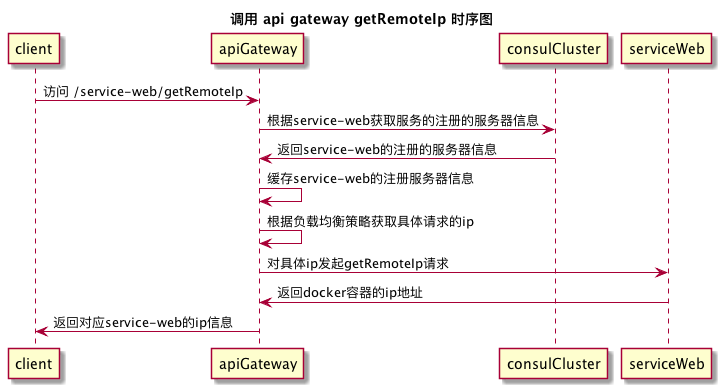
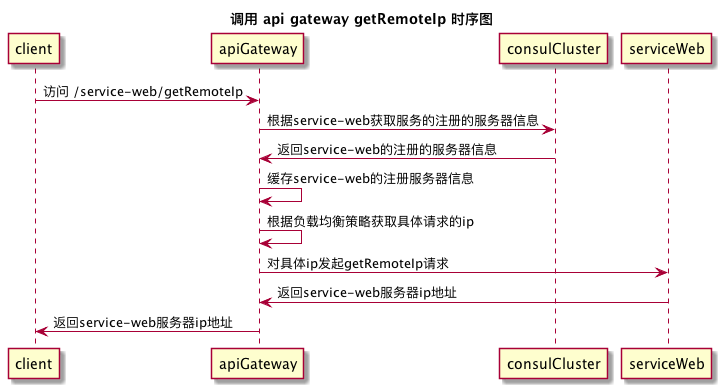
完成服务发现文章

Changed region(s): [[0.0915, 0.8041, 0.3356, 0.866], [0.4272, 0.7113, 0.6408, 0.7732]]

diff --git a/serviceFind.md b/serviceFind.md
@@ -23,12 +23,15 @@
 
 ## 示例
 
-示例部署图如下：
+为了验证服务发现机制，api gateway对外提供`getRemoteIp`方法，用来获取service web的本地ip地址。获取service web的ip的作用有两个：
+
+1. 成功返回ip地址，则验证服务发现起作用
+2. 多次请求返回不同的ip地址，则验证api gateway 负载均衡起作用
+
+先看示例部署图如下：
 ![services register](images/serviceFind.png?raw=true)
 
-registratior监控service web，一旦service web 状态发生变化，通知consul cluster做出相应处理，api gateway 订阅consul cluster 的服务，根据负载均衡的策略，把请求转发到对应web处理。 api网关的功能比较丰富，包括路由、认证、降级、熔断等功能，本例仅实现路由功能，其他功能后面有时间会在写文章介绍。
-
-为了验证服务发现机制，api gateway对外提供getRemoteIp方法，用来获取service web的本地ip地址。如果返回不同ip地址即验证服务发现机制已经起作用。
+registratior监控service web，一旦service web 状态发生变化，通知consul cluster做出相应处理，api gateway 订阅consul cluster 的服务，根据负载均衡的策略，把请求转发到对应web处理。
 
 获取service web本地ip的时序图如下：
 
@@ -48,7 +51,7 @@ router.js ------ 暴露getRemoteIp方法
 serviceLocalStorage.js ------ 缓存服务地址
 watch.js  ------ 监控注册中心的service 是否发生变化
 startWatch.js ------ 启动监控，如果发生变化，则通知缓存更新service列表
-Dockerfile ------ 制作image
+Dockerfile ------ 制作docker image
 docker-compose.yml ------ 服务编排
 ```
 
@@ -56,15 +59,11 @@ docker-compose.yml ------ 服务编排
 
 下面会对上面提供的功能点依次进行实现（展示代码中只保留核心代码，详细请见代码）。
 
-### 1. 服务发现
+### 1. 服务发现，缓存服务地址
 
-涉及到的js：`discovery.js`。
+涉及到核心的逻辑文件：`discovery.js`，代码如下：
 
 ```js
-const Consul = require('consul');
-const debug = require('debug')('dev:discovery');
-const utils = require('./utils');
-const serviceLocalStorage = require('./serviceLocalStorage.js');
 class Discovery {
     connect(...args) {
         if (!this.consul) {
@@ -109,8 +108,262 @@ class Discovery {
 }
 ```
 
-调用getService获取注册的服务信息，步骤如下：
+调用`getService`获取注册服务信息，步骤如下：
 
 1. 检查缓存中是否存在，如果存在，则从缓存中获取
 2. 如果不存在，则获取最新的服务列表
 3. 存储到缓存中
+
+### 2. 变更通知 && 更新本地服务列表
+
+监听服务节点，一旦发生变化，立即通知对应的订阅者，更新本地服务列表。
+
+先看监听服务节点的核心代码：`watch.js`:
+
+```js
+class Watch {
+    /**
+     * 监控需要的服务
+     * @param {*} services
+     * @param {*} onChanged
+     */
+    watch(services, onChanged) {
+        const consul = this.consul;
+        if (services === undefined) {
+            throw new Error('service 不能为空')
+        }
+        if (typeof services === 'string') {
+            serviceWatch(services);
+        } else if (services instanceof Array) {
+            services.forEach(service => {
+                serviceWatch(service);
+            });
+        }
+        function serviceWatch(service) {
+            const watch = consul.watch({method: consul.catalog.service.nodes, options: {
+                    service
+                }});
+            watch.on('change', data => {
+                const result = {
+                    name: service,
+                    data
+                };
+                debug(`监听${service}内容有变化：${JSON.stringify(result)}`);
+                onChanged(null, result);
+            });
+            watch.on('error', error => {
+                debug(`监听${service}错误,错误的内容为：${error}`);
+                onChanged(error, null);
+            });
+        }
+        return this;
+    }
+}
+```
+
+由于nodejs是单线程的，需要额外启动一个子进程来监听服务的变化，一旦服务列表有变化，则把服务列表更新到缓存中，请看`app.js`:
+
+```js
+const Application = require('koa');
+const app = new Application();
+const debug = require('debug');
+const appDebug = debug('dev:app');
+const forkDebug = debug('dev:workerProcess');
+const child_process = require('child_process');
+const router = require('./router');
+const serviceLocalStorage = require('./serviceLocalStorage.js');
+//监听3000端口
+app.listen(3000, '0.0.0.0',() => {
+    appDebug('Server running at 3000');
+});
+app
+    .use(router.routes())
+    .use(router.allowedMethods);
+
+// fork一个子进程，用于监听服务节点变化
+const workerProcess = child_process.fork('./startWatch.js');
+
+// 子进程退出
+workerProcess.on('exit', function (code) {
+    forkDebug(`子进程已退出，退出码：${code}`);
+});
+workerProcess.on('error', function (error) {
+    forkDebug(`error: ${error}`);
+});
+
+// 接收变化的服务列表，并更新到缓存中
+workerProcess.on('message', msg => {
+    if (msg) {
+        appDebug(`从监控中数据变化：${JSON.stringify(msg)}`);
+        //更新缓存中服务列表
+        serviceLocalStorage.setItem(msg.name, msg.data);
+    }
+});
+
+```
+
+发送变更的服务列表给主进程，涉及到的代码`startWatch.js`:
+
+```js
+const watch = require('./watch');
+
+// 监听服务节点，如果发现变化，则通知主进程的服务列表进行更新
+watch.connect().watch(['service-web'],(error,data)=>{
+   process.send(data);
+});
+```
+
+### 3. 服务调用
+
+结合前面说的服务发现，我们来看服务是如何被调用的，涉及到的代码`router.js`：
+
+```js
+
+router.get('/service-web/getRemoteIp', async(ctx, next) => {
+    //获取具体ip信息
+    const host = await getServiceHost('service-web');
+    const fetchUrl = `http://${host}/getRemoteIp`;
+    const result = await request.get(fetchUrl);
+    debug(`getRemoteIp:${result.text}`);
+    ctx.body = result.text;
+});
+
+/**
+ * 根据service name 获取 service 对应host
+ */
+async function getServiceHost(name) {
+    //根据服务名称获取注册的服务信息，如果缓存中存在，则从缓存中获取，如果不存在则获取数据
+    const services = await discovery.getService({service: name});
+    random = Math.floor(Math.random() * (services.length));
+    //定义随机数，随机获取ip的负载均衡策略
+    const host = services[random];
+    debug(`service host ${services[random]}`)
+    return host;
+}
+```
+
+## 部署服务
+
+根据前面提供部署图，完整的`docker-compose.yml`代码如下：
+
+```Dockerfile
+
+version: '3.0'
+
+services:
+  # consul server，对外暴露的ui接口为8500，只有在2台consul服务器的情况下集群才起作用
+  consulserver:
+    image: progrium/consul:latest
+    hostname: consulserver
+    ports:
+      - "8300"
+      - "8400"
+      - "8500:8500"
+      - "53"
+    command: -server -ui-dir /ui -data-dir /tmp/consul --bootstrap-expect=2
+    networks:
+      - app
+
+  # consul server1在consul server服务起来后，加入集群中
+  consulserver1:
+    image: progrium/consul:latest
+    hostname: consulserver1
+    depends_on:
+      - "consulserver"
+    ports:
+      - "8300"
+      - "8400"
+      - "8500"
+      - "53"
+    command: -server -data-dir /tmp/consul -join consulserver
+    networks:
+      - app
+  # consul server2在consul server服务起来后，加入集群中
+  consulserver2:
+    image: progrium/consul:latest
+    hostname: consulserver2
+    depends_on:
+      - "consulserver"
+    ports:
+      - "8300"
+      - "8400"
+      - "8500"
+      - "53"
+    command: -server -data-dir /tmp/consul -join consulserver
+    networks:
+      - app
+  # 监听容器中暴露的端口，一定有新的端口，注册到注册中心
+  registrator:
+    image: gliderlabs/registrator:master
+    hostname: registrator
+    depends_on:
+      - "consulserver"
+    volumes:
+      - "/var/run/docker.sock:/tmp/docker.sock"
+    command: -internal consul://consulserver:8500
+    networks:
+      - app
+  serviceweb:
+    image: windavid/node-service-test-web
+    depends_on:
+      - "consulserver"
+    environment:
+      SERVICE_3000_NAME: service-web
+    ports:
+      - "3000"
+    networks:
+      - app
+  # app gatway 暴露对外访问3000端口
+  gateway:
+    image: windavid/gateway-test
+    hostname: gateway
+    ports:
+      - "3000:3000"
+    networks:
+      - app
+networks:
+  app:
+```
+
+运行以下命令，启动服务。
+
+```shell
+docker-compose up -d --scale serviceweb=3
+```
+
+## 验证服务功能
+
+启动服务后，我们在注册中心发现service-web 对应的服务器ip分别为：
+172.21.0.6，172.21.0.7，172.21.0.9。
+
+### 1. 验证服务发现
+
+如前面时序图所述，api gateway对外暴露`/service-web/getRemoteIp`来获取本地ip信息。
+
+多次运行以下代码来验证结果：
+
+```bash
+curl http://127.0.0.1:3000/service-web/getRemoteIp
+```
+
+多次运行的结果为以下随机一个：
+
+```json
+{"ip":"172.21.0.6"}，{"ip":"172.21.0.7"},{"ip":"172.21.0.9"}
+```
+
+说明服务发现以及负载均衡的功能验证通过。
+
+### 2. 验证服务通知功能
+
+下线某个service-web服务后，查看gateway-test日志：
+
+```js
+2018-05-04T08:33:34.573Z dev:watch 监听service-web内容有变化：{"name":"service-web","data":[{"Node":"consulserver","Address":"172.21.0.2","ServiceID":"registrator:gatewaytest_serviceweb_1:3000","ServiceName":"service-web","ServiceTags":null,"ServiceAddress":"172.21.0.7","ServicePort":3000},{"Node":"consulserver","Address":"172.21.0.2","ServiceID":"registrator:gatewaytest_serviceweb_3:3000","ServiceName":"service-web","ServiceTags":null,"ServiceAddress":"172.21.0.6","ServicePort":3000}]}
+```
+
+发现ip为172.21.0.9的服务已经下载，且通知到订阅者。
+
+## 总结
+
+到此为止，我们已实现了服务的注册与发现。下篇我们介绍分布式服务中的服务跟踪
